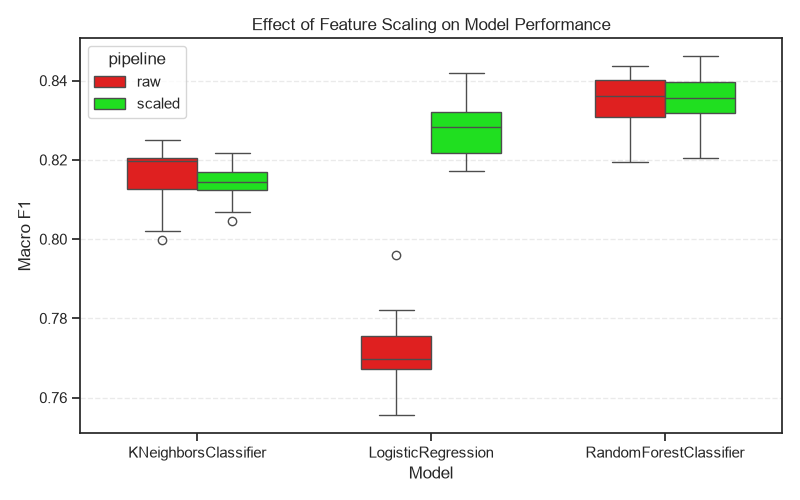
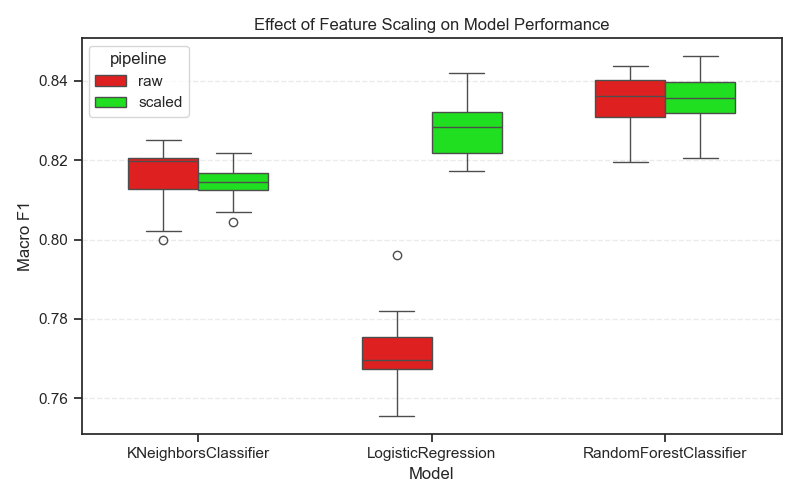
feat: draw the results of `pca` on figures
+ To draw your `figures`, go to `src.analysis.draw_figure`
+ To understand the purpose of each plot, read `description` of the functions in `src.analysis.draw_figure`

diff --git a/src/analysis/draw_figure.py b/src/analysis/draw_figure.py
@@ -1,3 +1,6 @@
+import ast
+
+import numpy as np
 import seaborn as sns
 import matplotlib.pyplot as plt
 plt.figure(figsize=(8, 5))
@@ -5,6 +8,7 @@ sns.set_theme(style="ticks", palette="pastel")
 
 from src.config import load_config, read_results, resolve_path
 cfg = load_config()
+FIGURES_DIR = resolve_path(cfg, 'figures')
 
 # Scaling
 def draw_scaling_boxplot(df_scaling):
@@ -76,9 +80,332 @@ def draw_scaling_time(df_scaling, time_tag):
     return plt
 
 # PCA
-def draw_pca_performance(df_pca):
+# ------------------------------------------------------------------
+# Cấu hình chung cho các plot PCA
+# ------------------------------------------------------------------
+PCA_PIPELINE_ORDER = ["no_pca", "pca_50", "pca_75", "pca_90"]
+PCA_PIPELINE_PALETTE = {
+    "no_pca": "#4C72B0",
+    "pca_50": "#DD8452",
+    "pca_75": "#55A868",
+    "pca_90": "#C44E52",
+}
+MODEL_PALETTE = {
+    "KNeighborsClassifier": "#4C72B0",
+    "LogisticRegression": "#DD8452",
+    "RandomForestClassifier": "#55A868",
+}
+MODEL_ORDER = list(MODEL_PALETTE.keys())
+
+
+def normalize_pipeline_label(value):
+    # Cột 'pipeline' có thể đã là string label sẵn (vd 'no_pca', 'pca_50', ...)
+    # hoặc là string dạng list cũ "[flag_scale, flag_pca, n_components]" nếu
+    # build_pipeline.py chưa đổi sang string label. Hàm này xử lý được cả 2.
+    if isinstance(value, str) and value.strip().startswith("["):
+        try:
+            flag_scale, flag_pca, n_components = ast.literal_eval(value)
+        except (ValueError, SyntaxError):
+            return value
+        if not flag_pca or n_components is None:
+            return "no_pca"
+        return f"pca_{round(float(n_components) * 100)}"
+    return value
+
+
+def plot_boxplot(df, metric="macro_f1", save_path=FIGURES_DIR / "pca_boxplot.png"):
     # Description:
-    return 0
+    # Vẽ boxplot thủ công bằng ax.boxplot (thay cho sns.boxplot) để kiểm soát
+    # màu/độ rộng box tốt hơn: 3 models, mỗi model 4 boxplot (no_pca, pca_50,
+    # pca_75, pca_90) thể hiện tứ phân vị của macro_f1 qua 10 block.
+    fig, ax = plt.subplots(figsize=(11, 5))
+
+    n_pipelines = len(PCA_PIPELINE_ORDER)
+    width = 0.8 / n_pipelines
+    x_base = np.arange(len(MODEL_ORDER))
+
+    for i, pipeline in enumerate(PCA_PIPELINE_ORDER):
+        data = []
+        for model in MODEL_ORDER:
+            vals = df[(df["model"] == model) & (df["pipeline"] == pipeline)][metric]
+            data.append(vals.values)
+        positions = x_base + (i - (n_pipelines - 1) / 2) * width
+        bp = ax.boxplot(
+            data,
+            positions=positions,
+            widths=width * 0.9,
+            patch_artist=True,
+            manage_ticks=False,
+        )
+        for box in bp["boxes"]:
+            box.set_facecolor(PCA_PIPELINE_PALETTE[pipeline])
+            box.set_alpha(0.8)
+        # legend proxy
+        ax.plot([], [], color=PCA_PIPELINE_PALETTE[pipeline], label=pipeline, linewidth=8)
+
+    ax.set_xticks(x_base)
+    ax.set_xticklabels(MODEL_ORDER)
+    ax.set_ylabel(metric)
+    ax.set_title(f"Distribution of {metric} across 10 blocks — by model x pipeline")
+    ax.grid(axis="y", linestyle="--", alpha=0.4)
+    ax.legend(loc="lower right", fontsize=8, title="Pipeline")
+    fig.tight_layout()
+    fig.savefig(save_path, dpi=150)
+    plt.close(fig)
+    print(f"Saved: {save_path}")
+
+
+def draw_pca_paired_line(df_pca, metric="macro_f1"):
+    # Description:
+    # Vẽ 3 plot mỗi model, mỗi plot gồm 4 đường (no_pca, pca_50, pca_75, pca_90)
+    # nối qua 10 block -- để xem PCA có làm thay đổi hiệu năng 1 cách nhất quán
+    # qua các block hay không (paired theo block_id).
+    fig, axes = plt.subplots(
+        nrows=1,
+        ncols=3,
+        figsize=(18, 5),
+        sharex=True,
+        sharey=True,
+    )
+    models = df_pca["model"].unique()
+
+    for ax, model in zip(axes, models):
+        model_df = df_pca[df_pca["model"] == model]
+
+        for pipeline in PCA_PIPELINE_ORDER:
+            line_df = model_df[model_df["pipeline"] == pipeline].sort_values("block_id")
+            if line_df.empty:
+                continue
+            ax.plot(
+                line_df["block_id"],
+                line_df[metric],
+                marker="o",
+                color=PCA_PIPELINE_PALETTE[pipeline],
+                linestyle="-" if pipeline == "no_pca" else "--",
+                label=pipeline,
+            )
+
+        ax.set_title(model)
+        ax.set_xlabel("Block")
+        ax.set_ylabel(metric)
+        ax.grid(True)
+        ax.legend(fontsize=8)
+
+    plt.tight_layout()
+    return plt
+
+
+def draw_pca_performance(df_pca, metric="macro_f1"):
+    # Description:
+    # Grouped bar chart: trục x = mức PCA (no_pca/50/75/90), mỗi nhóm gồm 3 cột
+    # cạnh nhau (1 cột / model), giá trị = mean +- std của metric qua 10 block.
+    summary = (
+        df_pca.groupby(["pipeline", "model"], observed=True)[metric]
+        .agg(["mean", "std"])
+        .reset_index()
+    )
+
+    models = list(MODEL_PALETTE.keys())
+    x_base = np.arange(len(PCA_PIPELINE_ORDER))
+    width = 0.8 / len(models)
+
+    fig, ax = plt.subplots(figsize=(9, 5))
+    for i, model in enumerate(models):
+        rows = summary[summary["model"] == model].set_index("pipeline")
+        means = [rows.loc[p, "mean"] if p in rows.index else np.nan for p in PCA_PIPELINE_ORDER]
+        stds = [rows.loc[p, "std"] if p in rows.index else 0 for p in PCA_PIPELINE_ORDER]
+        positions = x_base + (i - (len(models) - 1) / 2) * width
+        ax.bar(
+            positions,
+            means,
+            width=width * 0.9,
+            yerr=stds,
+            capsize=3,
+            label=model,
+            color=MODEL_PALETTE[model],
+        )
+
+    ax.set_xticks(x_base)
+    ax.set_xticklabels(PCA_PIPELINE_ORDER)
+    ax.set_xlabel("Pipeline (PCA level)")
+    ax.set_ylabel(metric)
+    ax.set_title("Performance by PCA level — mean ± std across 10 blocks")
+    ax.legend(fontsize=8)
+    ax.grid(axis="y", linestyle="--", alpha=0.4)
+
+    plt.tight_layout()
+    return plt
+
+
+def _nice_round_seconds(value):
+    # Làm tròn giây về mốc dễ đọc, tổng quát (không lấy lẻ)
+    steps = [5, 10, 15, 20, 30, 45, 60, 90, 120, 180, 300, 600]
+    for s in steps:
+        if value <= s:
+            return s
+    return int(round(value / 60)) * 60
+
+
+def _nice_legend_values(series):
+    percentiles = np.percentile(series, [25, 60, 95])
+    return sorted({_nice_round_seconds(v) for v in percentiles})
+
+
+def _draw_diameter_legend(fig, values, unit_label, rect):
+    """
+    Vẽ 1 legend kiểu "Diameter" (giống hình ConvNeXt paper): các vòng tròn
+    tiếp tuyến chung 1 đường đáy, kích thước tăng dần trái->phải, có tick
+    mark + nhãn giá trị bên dưới mỗi vòng tròn. Vẽ trên 1 inset axes riêng
+    (toạ độ theo fraction của figure) để không đè lên data chính.
+
+    rect: (left, bottom, width, height) theo toạ độ fraction của figure.
+    """
+    legend_ax = fig.add_axes(rect)
+    legend_ax.set_xticks([])
+    legend_ax.set_yticks([])
+    for spine in legend_ax.spines.values():
+        spine.set_visible(False)
+    legend_ax.set_xlim(0, 1)
+    legend_ax.set_ylim(0, 1)
+
+    values = sorted(values)
+    max_val = values[-1]
+    max_radius = 0.30  # bán kính (fraction of axes) của vòng tròn lớn nhất
+    radii = [max_radius * np.sqrt(v / max_val) for v in values]
+
+    baseline_y = 0.16
+    xs = np.linspace(0.20, 0.85, len(values))
+
+    for x, r, v in zip(xs, radii, values):
+        circle = plt.Circle(
+            (x, baseline_y + r), r,
+            transform=legend_ax.transAxes,
+            fill=False, edgecolor="gray", linewidth=1.2,
+        )
+        legend_ax.add_patch(circle)
+        legend_ax.plot(
+            [x, x], [baseline_y - 0.05, baseline_y],
+            color="gray", linewidth=1, transform=legend_ax.transAxes,
+        )
+        legend_ax.text(
+            x, baseline_y - 0.09, f"{v:g}",
+            ha="center", va="top", fontsize=7, transform=legend_ax.transAxes,
+        )
+
+    legend_ax.plot(
+        [0.08, 0.92], [baseline_y, baseline_y],
+        color="gray", linewidth=1, transform=legend_ax.transAxes,
+    )
+    legend_ax.text(
+        0.08, baseline_y + max_radius * 2 + 0.10, unit_label,
+        ha="left", va="bottom", fontsize=7, transform=legend_ax.transAxes,
+    )
+
+
+def draw_pca_bubble_runtime(df_pca, runtime_col="fit_runtime_sec", metric="macro_f1"):
+    summary = (
+        df_pca.groupby(["pipeline", "model"], observed=True)
+        .agg(metric_mean=(metric, "mean"), runtime_mean=(runtime_col, "mean"))
+        .reset_index()
+    )
+
+    fig, ax = plt.subplots(figsize=(10, 6))
+    x_positions = {p: i for i, p in enumerate(PCA_PIPELINE_ORDER)}
+
+    # 1. BIẾN ĐỔI LOGARITHM ĐỂ GIỮ TỶ LỆ CHUẨN XÁC
+    # Offset tránh log(0)
+    log_runtime = np.log1p(summary["runtime_mean"])
+
+    # Scale diameter theo log
+    d_min, d_max = 12, 45
+    log_min, log_max = log_runtime.min(), log_runtime.max()
+
+    if log_max > log_min:
+        summary["diameter"] = d_min + (log_runtime - log_min) / (log_max - log_min) * (d_max - d_min)
+    else:
+        summary["diameter"] = (d_min + d_max) / 2
+
+    # Diện tích = (đường kính)^2 (Matplotlib)
+    summary["size"] = summary["diameter"] ** 2
+
+    for model in MODEL_PALETTE:
+        sub = summary[summary["model"] == model]
+        if sub.empty:
+            continue
+
+        xs = [x_positions[p] for p in sub["pipeline"]]
+
+        ax.scatter(
+            xs,
+            sub["metric_mean"],
+            s=sub["size"],
+            color=MODEL_PALETTE[model],
+            alpha=0.55,
+            edgecolors="white",
+            linewidth=1,
+        )
+        for x, y in zip(xs, sub["metric_mean"]):
+            ax.annotate(
+                model.replace("Classifier", "").replace("Regression", ""),
+                (x, y),
+                textcoords="offset points",
+                xytext=(0, 8),
+                ha="center",
+                fontsize=7,
+            )
+
+    ax.set_xticks(list(x_positions.values()))
+    ax.set_xticklabels(list(x_positions.keys()))
+    ax.set_xlabel("Pipeline")
+    ax.set_ylabel(metric)
+    ax.set_title(f"{metric} vs {runtime_col} by pipeline (bubble size = log-scaled runtime)")
+
+    # Legend Model - Góc dưới trái
+    model_handles = [
+        plt.Line2D([0], [0], marker="o", color="w", markerfacecolor=c, markersize=8)
+        for c in MODEL_PALETTE.values()
+    ]
+    ax.legend(
+        model_handles,
+        list(MODEL_PALETTE.keys()),
+        loc="lower left",
+        bbox_to_anchor=(0.02, 0.15),
+        fontsize=7,
+        title="Model",
+        labelspacing=0.8,
+        borderpad=0.8,
+    )
+
+    plt.tight_layout()
+
+    # 2. VẼ THƯỚC ĐO DIAMETER THEO THANG LOG (GÓC DƯỚI PHẢI)
+    r_min = summary["runtime_mean"].min()
+    r_max = summary["runtime_mean"].max()
+
+    # Tạo 4 mốc thực tế đại diện (ví dụ: min, 10%, 50%, max)
+    legend_vals = np.array([r_min, r_min + (r_max - r_min) * 0.1, r_min + (r_max - r_min) * 0.4, r_max])
+
+    # Tương ứng với vị trí x (0 đến 1) trên thước đo log
+    log_vals = np.log1p(legend_vals)
+    x_coords = (log_vals - log_min) / (log_max - log_min) if log_max > log_min else np.linspace(0, 1, 4)
+
+    ax_leg = fig.add_axes([0.65, 0.12, 0.28, 0.08])
+    ax_leg.axis("off")
+
+    y_line = 0.5
+    ax_leg.plot([0, 1], [y_line, y_line], color="gray", lw=1)
+
+    for x, val in zip(x_coords, legend_vals):
+        ax_leg.plot([x, x], [y_line - 0.15, y_line + 0.15], color="gray", lw=1)
+        ax_leg.text(x, y_line - 0.35, f"{val:.1f}", ha="center", va="top", fontsize=7, color="#333333")
+
+    ax_leg.text(0.0, y_line + 0.3, "Diameter (log scale)", ha="left", va="bottom", fontsize=8, color="#333333")
+    ax_leg.text(1.05, y_line - 0.35, f"{runtime_col} (s)", ha="left", va="top", fontsize=7, color="#333333")
+
+    ax_leg.set_xlim(-0.05, 1.25)
+    ax_leg.set_ylim(0, 1)
+
+    return plt
 
 # Save 
 def save_fig(plt,file_name):
@@ -96,6 +423,20 @@ def main():
 
     plt_infer = draw_scaling_time(df_scaling,'inference_runtime_sec')
     save_fig(plt_infer, 'scaling_infer_plot.png')
-        
+
+    df_pca = read_results(cfg, 'PCA.csv')
+    df_pca["pipeline"] = df_pca["pipeline"].apply(normalize_pipeline_label)
+
+    plot_boxplot(df_pca, metric="macro_f1")
+
+    plt_pca_paired = draw_pca_paired_line(df_pca, metric="macro_f1")
+    save_fig(plt_pca_paired, 'pca_paired_plot.png')
+
+    plt_pca_performance = draw_pca_performance(df_pca, metric="macro_f1")
+    save_fig(plt_pca_performance, 'pca_performance.png')
+
+    plt_pca_bubble = draw_pca_bubble_runtime(df_pca, runtime_col="fit_runtime_sec")
+    save_fig(plt_pca_bubble, 'pca_runtime_plot.png')
+
 if __name__ == "__main__":
     main()
